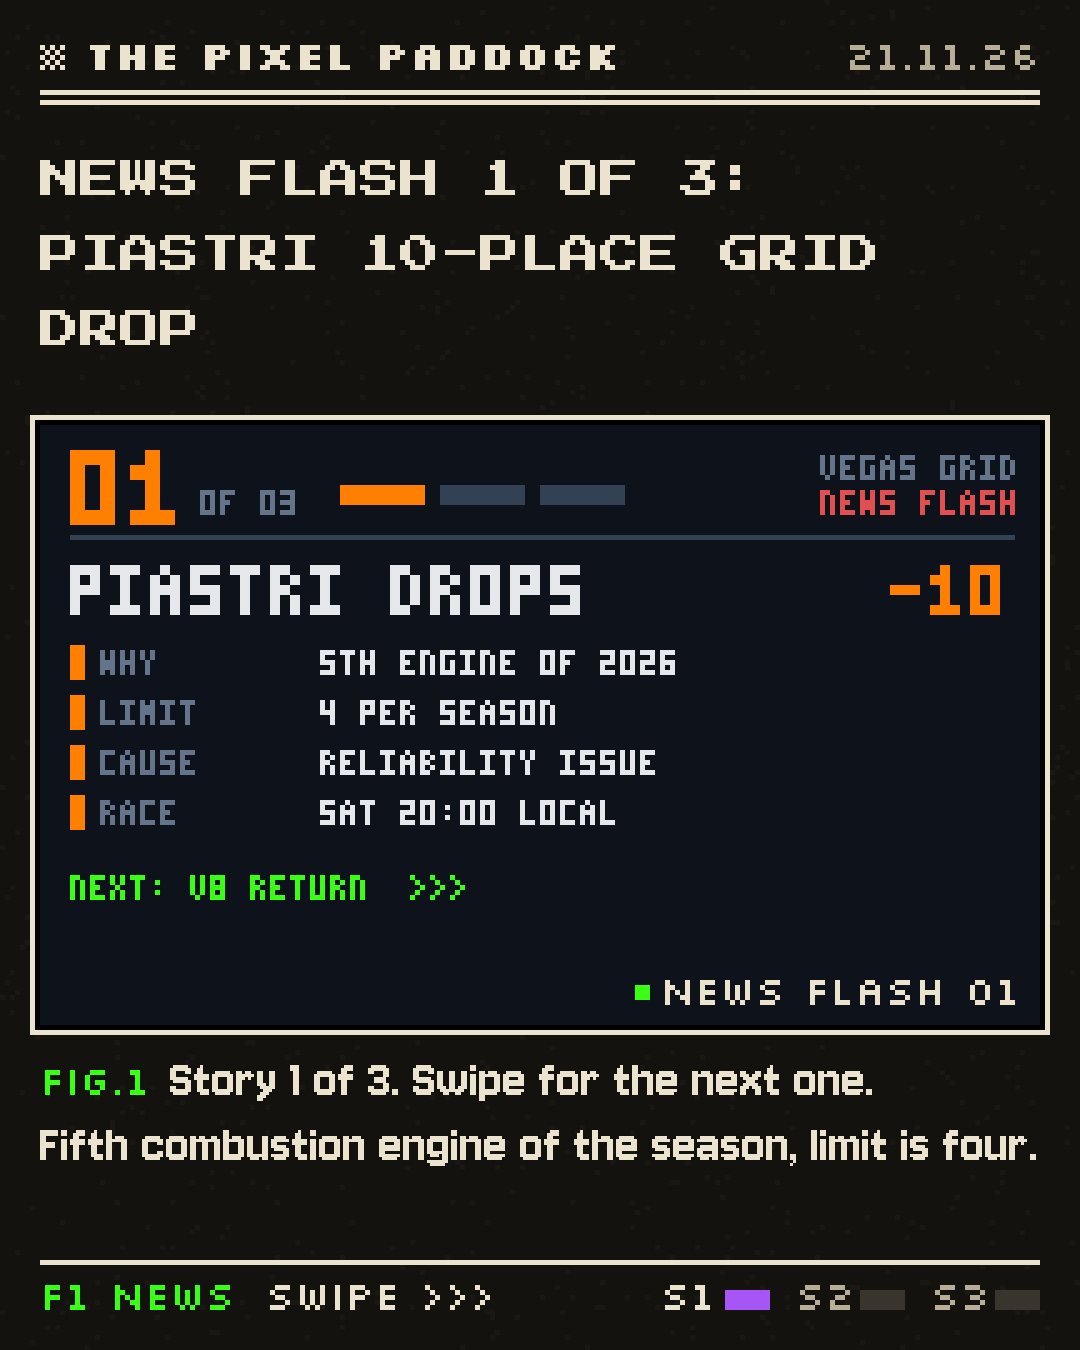
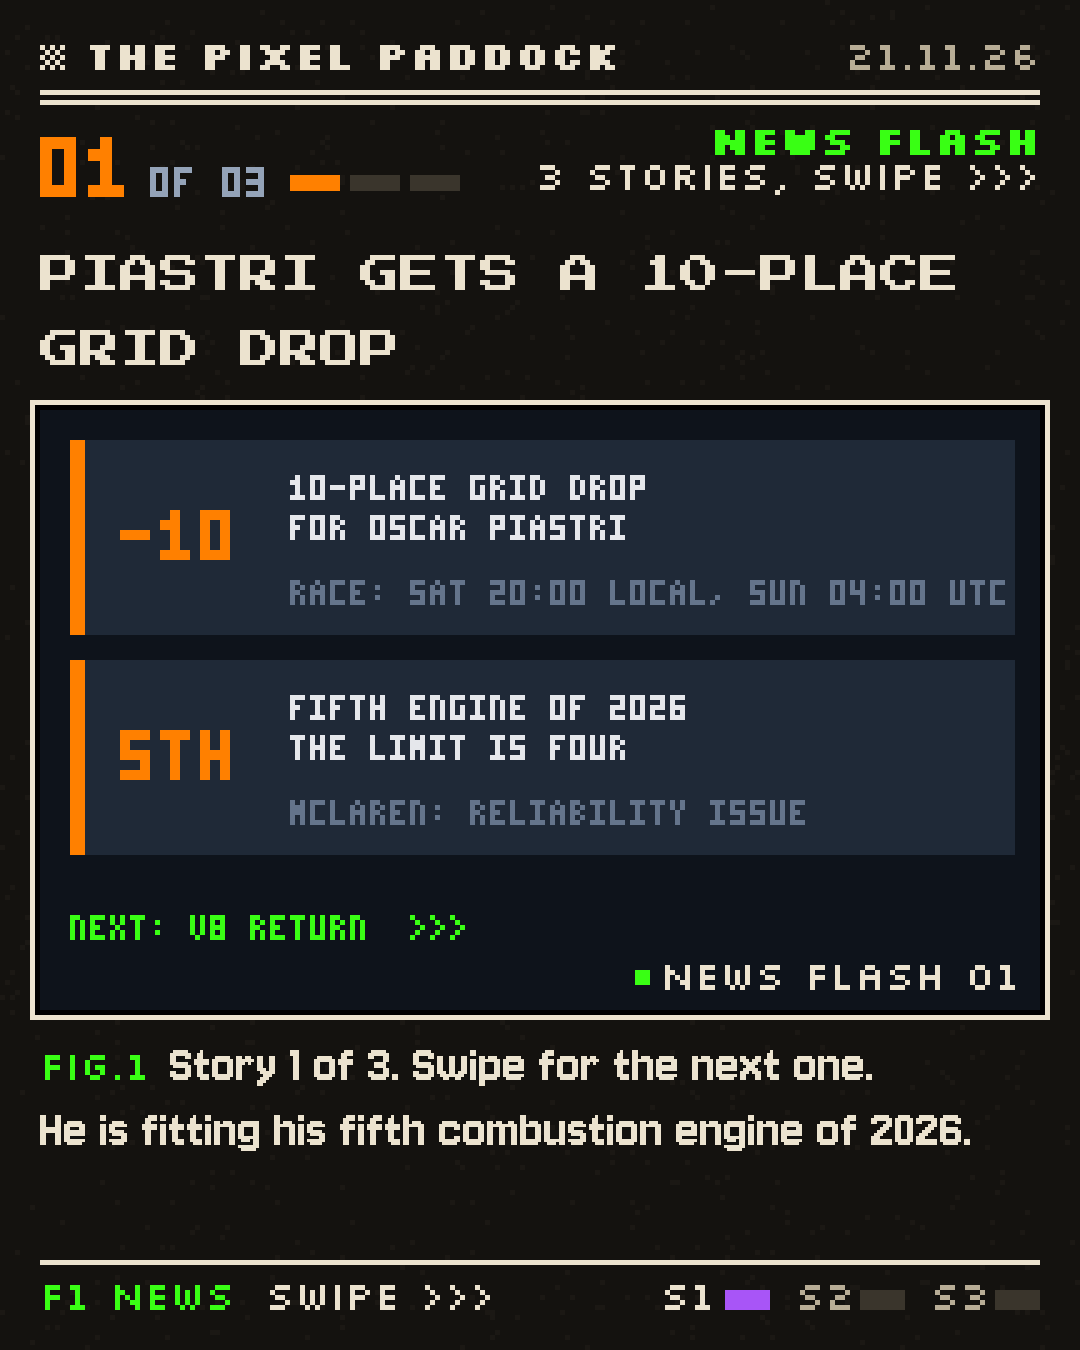
News Flash v3: counter at page top, one headline, card details
Claude-Session: https://claude.ai/code/session_01XcMK5Sp6yyyARadsj7RYTL

diff --git a/posts/2026-11-21_news-flash/script.py b/posts/2026-11-21_news-flash/script.py
@@ -2,78 +2,76 @@ import os, sys
 sys.path.insert(0, os.path.dirname(os.path.abspath(__file__))); sys.path.insert(0, os.path.join(os.path.dirname(os.path.abspath(__file__)), ".."))
 from PIL import Image, ImageDraw
 exec(open(os.path.join(os.path.dirname(os.path.abspath(__file__)),"post_fri.py")).read().split("def slide(")[0].replace('"out_fri"','"out_flash"').replace('DATE = "07.11.26"','DATE = "21.11.26"').replace('HUD = "23.70S 46.70W"','HUD = "NEWS FLASH 01"'))
-# NEWS FLASH No. 1, v2 (Marius 21.11.: clearly 3 stories, one per slide, info first, no noise, swipe prompt).
+from pp import text, tlen
+# NEWS FLASH No. 1, v3 (Marius 21.11.): big "01 OF 03" counter at the very top of the page, then ONE headline,
+# details as cards (v1 style) in story colour, one story per slide, "next" teaser to drive the swipe.
 # Sources (2 each, year 2026 checked):
 #  V8 2030: FIA press release 20.11.26 + RACER/Motorsport.com/The Race 20.11.26
 #  Piastri -10: F1.com 18.11.26 + PlanetF1 + Autosport (5th ICE, limit 4, reliability)
-#  Bottas 2027 / Herta: RACER 18.11.26 + PlanetF1 18.11.26 (Herta super licence points, no 2027 seat)
+#  Bottas 2027 / Herta: RACER 18.11.26 + PlanetF1 18.11.26 (+ F1.com Towriss 20.11.26)
 #  Left out (1 source only): Aron/Vesti Alpine, Herta declined reserve role, WMSC Shanghai vote.
 STORIES = {
- "v8":  dict(tag="ENGINES", col=GREEN, title=["V8S ARE BACK"], stat="2030",
-             rows=[("ENGINE","2.1 L TURBO V8"),("HYBRID","LIMITED"),("AGREED","UNANIMOUSLY"),("GOAL","LIGHTER, SIMPLER, CHEAPER")],
-             teaser="V8 RETURN"),
- "pia": dict(tag="VEGAS GRID", col=hx(TC["PIA"]), title=["PIASTRI DROPS"], stat="-10",
-             rows=[("WHY","5TH ENGINE OF 2026"),("LIMIT","4 PER SEASON"),("CAUSE","RELIABILITY ISSUE"),("RACE","SAT 20:00 LOCAL")],
-             teaser="PIASTRI -10"),
- "bot": dict(tag="2027 SEATS", col=hx(TC["BOT"]), title=["BOTTAS STAYS"], stat="2027",
-             rows=[("TEAM","CADILLAC"),("TEAM-MATE","PEREZ"),("LEFT OUT","COLTON HERTA"),("HERTA","HAS SUPER LICENCE POINTS")],
-             teaser="BOTTAS STAYS"),
+ "v8":  dict(col=GREEN, tag="ENGINES", teaser="V8 RETURN",
+             cards=[("2030", "2.1 L TURBO V8", "WITH LIMITED HYBRID", "NEW ENGINE RULES FROM 2030"),
+                    ("ALL", "AGREED UNANIMOUSLY", "FIA, F1, TEAMS, PU MAKERS", "GOAL: LIGHTER, SIMPLER, CHEAPER")]),
+ "pia": dict(col=hx(TC["PIA"]), tag="VEGAS GRID", teaser="PIASTRI -10",
+             cards=[("-10", "10-PLACE GRID DROP", "FOR OSCAR PIASTRI", "RACE: SAT 20:00 LOCAL, SUN 04:00 UTC"),
+                    ("5TH", "FIFTH ENGINE OF 2026", "THE LIMIT IS FOUR", "MCLAREN: RELIABILITY ISSUE")]),
+ "bot": dict(col=hx(TC["BOT"]), tag="2027 SEATS", teaser="BOTTAS STAYS",
+             cards=[("2027", "BOTTAS STAYS AT CADILLAC", "NEXT TO PEREZ AGAIN", "LINE-UP UNCHANGED FOR YEAR TWO"),
+                    ("NO", "NO RACE SEAT FOR HERTA", "DESPITE SUPER LICENCE POINTS", "EARNED IN FP1 RUNS FOR CADILLAC")]),
 }
 
-def big(im, x, y, s, col, k=2):
-    t = Image.new("RGB", (len(s)*4+2, 7), BG); tx(ImageDraw.Draw(t), 0, 1, s, col)
-    t = t.resize((t.width*k, t.height*k), Image.NEAREST); im.paste(t, (x, y - k))
+def px(s, col, k):           # pixel-font text block scaled k times (same 3x5 font as the scenes)
+    t = Image.new("RGB", (len(s)*4+1, 7), BG); tx(ImageDraw.Draw(t), 0, 1, s, col)
+    return t.resize((t.width*k, t.height*k), Image.NEAREST)
+def paste_px(im, x, y, s, col, k):
+    b = px(s, col, k); m = Image.eval(b.convert("L"), lambda v: 255 if v > 30 else 0); im.paste(b, (x, y), m)
+
+def counter(im, d, i, st, first):
+    y = 125
+    paste_px(im, 40, y, f"0{i+1}", st["col"], 12)                     # 01
+    paste_px(im, 150, y+36, "OF 03", hx("#94a3b8"), 6)                 # OF 03
+    for j in range(3):                                                 # progress
+        R(d, 290+j*60, y+50, 340+j*60, y+66, st["col"] if j == i else C["rule"])
+    lab = "NEWS FLASH"; text(im, W-40-tlen("labelb", lab), y+30, lab, "labelb", C["red"])
+    sub = "3 STORIES, SWIPE >>>" if first else st["tag"]
+    text(im, W-40-tlen("label", sub), y+66, sub, "label", C["ink"] if first else C["mute"])
+
+def card(d, im, y, c, stat, h1, h2, ctx):
+    r(d, 6, y, 194, y+38, BOXC); r(d, 6, y, 8, y+38, c)
+    sc = px(stat, c, 2); m = Image.eval(sc.convert("L"), lambda v: 255 if v > 30 else 0)
+    im.paste(sc, (12 + max(0, (34-sc.width)//2), y+12), m)
+    tx(d, 50, y+7, h1, INK); tx(d, 50, y+15, h2, INK); tx(d, 50, y+28, ctx, MUT)
 
 def scene_for(order, i):
-    key = order[i]; st = STORIES[key]
+    st = STORIES[order[i]]
     def s():
         im = Image.new("RGB", (200, 120), BG); d = ImageDraw.Draw(im)
-        # story counter: big number + 3-segment progress
-        big(im, 6, 5, f"0{i+1}", st["col"], 3); tx(d, 32, 13, "OF 03", MUT)
-        for j in range(3):
-            r(d, 60+j*20, 12, 76+j*20, 15, st["col"] if j == i else (SL if j > i else MUT))
-        tx(d, 196-len(st["tag"])*4, 6, st["tag"], MUT); tx(d, 196-len("NEWS FLASH")*4, 13, "NEWS FLASH", RED)
-        r(d, 6, 22, 194, 22, SL)
-        # title + key stat
-        for k, ln in enumerate(st["title"]): big(im, 6, 28+k*14, ln, INK, 2)
-        y0 = 28 + len(st["title"])*14
-        big(im, 194-len(st["stat"])*8, 28, st["stat"], st["col"], 2)
-        # fact rows
-        for k, (a, b) in enumerate(st["rows"]):
-            y = y0 + 2 + k*10
-            r(d, 6, y, 8, y+6, st["col"]); tx(d, 12, y+1, a, MUT); tx(d, 56, y+1, b, INK)
-        # swipe / end line
-        yb = y0 + 2 + len(st["rows"])*10 + 6
-        if i < 2: tx(d, 6, yb, f"NEXT: {STORIES[order[i+1]]['teaser']}  >>>", GREEN)
-        else:     tx(d, 6, yb, "THAT'S ALL 3. FOLLOW FOR MORE", GREEN)
+        for k, cd in enumerate(st["cards"]): card(d, im, 6+k*44, st["col"], *cd)
+        if i < 2: tx(d, 6, 101, f"NEXT: {STORIES[order[i+1]]['teaser']}  >>>", GREEN)
+        else:     tx(d, 6, 101, "THAT'S ALL 3. FOLLOW FOR MORE", GREEN)
         return im
     return s
 
-def slide(k, head, scene, figt, bod, foot, name):
+def slide(k, head, order, figt, bod, foot, name):
     im, d = page(k, 3, DATE)
-    y = headline(im, head)
-    y = cover_image(im, d, scene(), y + 75, HUD)
+    counter(im, d, k-1, STORIES[order[k-1]], k == 1)
+    y = headline(im, head, top=260)
+    y = cover_image(im, d, scene_for(order, k-1)(), y + 40, HUD)
     fig(im, y + 60, figt, k)
     body(im, y + 95, bod)
     footer(im, d, k, foot); im.save(f"{OUT}/{name}.png")
 
-V = {
- "1": (["v8","pia","bot"], ["NEWS FLASH: 3 STORIES, 3 SWIPES. 1: V8S RETURN IN 2030",
-                            "2: PIASTRI DROPS 10 PLACES IN VEGAS",
-                            "3: BOTTAS KEEPS HIS CADILLAC SEAT"]),
- "2": (["pia","v8","bot"], ["NEWS FLASH 1 OF 3: PIASTRI 10-PLACE GRID DROP",
-                            "NEWS FLASH 2 OF 3: V8 ENGINES BACK IN 2030",
-                            "NEWS FLASH 3 OF 3: BOTTAS STAYS, HERTA OUT"]),
- "3": (["v8","bot","pia"], ["THIS WEEK IN 3 SWIPES. 01: THE V8 IS BACK",
-                            "02: BOTTAS STAYS AT CADILLAC FOR 2027",
-                            "03: PIASTRI STARTS 10 PLACES BACK"]),
-}
+HEAD = {"v8": "V8 ENGINES RETURN TO F1 IN 2030", "pia": "PIASTRI GETS A 10-PLACE GRID DROP", "bot": "BOTTAS STAYS, NO 2027 SEAT FOR HERTA"}
+HEAD3 = {"v8": "THE V8 IS BACK FROM 2030", "pia": "PIASTRI STARTS 10 PLACES BACK", "bot": "CADILLAC KEEPS BOTTAS FOR 2027"}
+BOD = {"v8": "FIA, F1, teams and engine makers all signed up.", "pia": "He is fitting his fifth combustion engine of 2026.",
+       "bot": "Same Cadillac line-up next year: Bottas and Perez."}
 FIG = ["Story 1 of 3. Swipe for the next one.", "Story 2 of 3. One more to go.", "Story 3 of 3."]
-BOD = {"v8": "FIA, F1, teams and engine makers all signed up.", "pia": "Fifth combustion engine of the season, limit is four.",
-       "bot": "Same line-up next year: Bottas and Perez."}
+V = {"1": (["v8", "pia", "bot"], HEAD), "2": (["pia", "v8", "bot"], HEAD), "3": (["v8", "bot", "pia"], HEAD3)}
 for v, (order, heads) in V.items():
     for i in range(3):
-        slide(i+1, heads[i], scene_for(order, i), FIG[i], BOD[order[i]], "SWIPE >>>" if i < 2 else "FOLLOW", f"{v}_{i+1}")
+        slide(i+1, heads[order[i]], order, FIG[i], BOD[order[i]], "SWIPE >>>" if i < 2 else "FOLLOW", f"{v}_{i+1}")
 names = [f"{v}_{i}" for v in "123" for i in "123"]
 sh = Image.new("RGB", (3*550+10, 3*685+10), (60, 60, 60))
 for k, n in enumerate(names): sh.paste(Image.open(f"{OUT}/{n}.png").resize((540, 675)), (10+(k%3)*550, 10+(k//3)*685))

diff --git a/toolkit/examples/post_newsflash.py b/toolkit/examples/post_newsflash.py
@@ -2,78 +2,76 @@ import os, sys
 sys.path.insert(0, os.path.dirname(os.path.abspath(__file__))); sys.path.insert(0, os.path.join(os.path.dirname(os.path.abspath(__file__)), ".."))
 from PIL import Image, ImageDraw
 exec(open(os.path.join(os.path.dirname(os.path.abspath(__file__)),"post_fri.py")).read().split("def slide(")[0].replace('"out_fri"','"out_flash"').replace('DATE = "07.11.26"','DATE = "21.11.26"').replace('HUD = "23.70S 46.70W"','HUD = "NEWS FLASH 01"'))
-# NEWS FLASH No. 1, v2 (Marius 21.11.: clearly 3 stories, one per slide, info first, no noise, swipe prompt).
+from pp import text, tlen
+# NEWS FLASH No. 1, v3 (Marius 21.11.): big "01 OF 03" counter at the very top of the page, then ONE headline,
+# details as cards (v1 style) in story colour, one story per slide, "next" teaser to drive the swipe.
 # Sources (2 each, year 2026 checked):
 #  V8 2030: FIA press release 20.11.26 + RACER/Motorsport.com/The Race 20.11.26
 #  Piastri -10: F1.com 18.11.26 + PlanetF1 + Autosport (5th ICE, limit 4, reliability)
-#  Bottas 2027 / Herta: RACER 18.11.26 + PlanetF1 18.11.26 (Herta super licence points, no 2027 seat)
+#  Bottas 2027 / Herta: RACER 18.11.26 + PlanetF1 18.11.26 (+ F1.com Towriss 20.11.26)
 #  Left out (1 source only): Aron/Vesti Alpine, Herta declined reserve role, WMSC Shanghai vote.
 STORIES = {
- "v8":  dict(tag="ENGINES", col=GREEN, title=["V8S ARE BACK"], stat="2030",
-             rows=[("ENGINE","2.1 L TURBO V8"),("HYBRID","LIMITED"),("AGREED","UNANIMOUSLY"),("GOAL","LIGHTER, SIMPLER, CHEAPER")],
-             teaser="V8 RETURN"),
- "pia": dict(tag="VEGAS GRID", col=hx(TC["PIA"]), title=["PIASTRI DROPS"], stat="-10",
-             rows=[("WHY","5TH ENGINE OF 2026"),("LIMIT","4 PER SEASON"),("CAUSE","RELIABILITY ISSUE"),("RACE","SAT 20:00 LOCAL")],
-             teaser="PIASTRI -10"),
- "bot": dict(tag="2027 SEATS", col=hx(TC["BOT"]), title=["BOTTAS STAYS"], stat="2027",
-             rows=[("TEAM","CADILLAC"),("TEAM-MATE","PEREZ"),("LEFT OUT","COLTON HERTA"),("HERTA","HAS SUPER LICENCE POINTS")],
-             teaser="BOTTAS STAYS"),
+ "v8":  dict(col=GREEN, tag="ENGINES", teaser="V8 RETURN",
+             cards=[("2030", "2.1 L TURBO V8", "WITH LIMITED HYBRID", "NEW ENGINE RULES FROM 2030"),
+                    ("ALL", "AGREED UNANIMOUSLY", "FIA, F1, TEAMS, PU MAKERS", "GOAL: LIGHTER, SIMPLER, CHEAPER")]),
+ "pia": dict(col=hx(TC["PIA"]), tag="VEGAS GRID", teaser="PIASTRI -10",
+             cards=[("-10", "10-PLACE GRID DROP", "FOR OSCAR PIASTRI", "RACE: SAT 20:00 LOCAL, SUN 04:00 UTC"),
+                    ("5TH", "FIFTH ENGINE OF 2026", "THE LIMIT IS FOUR", "MCLAREN: RELIABILITY ISSUE")]),
+ "bot": dict(col=hx(TC["BOT"]), tag="2027 SEATS", teaser="BOTTAS STAYS",
+             cards=[("2027", "BOTTAS STAYS AT CADILLAC", "NEXT TO PEREZ AGAIN", "LINE-UP UNCHANGED FOR YEAR TWO"),
+                    ("NO", "NO RACE SEAT FOR HERTA", "DESPITE SUPER LICENCE POINTS", "EARNED IN FP1 RUNS FOR CADILLAC")]),
 }
 
-def big(im, x, y, s, col, k=2):
-    t = Image.new("RGB", (len(s)*4+2, 7), BG); tx(ImageDraw.Draw(t), 0, 1, s, col)
-    t = t.resize((t.width*k, t.height*k), Image.NEAREST); im.paste(t, (x, y - k))
+def px(s, col, k):           # pixel-font text block scaled k times (same 3x5 font as the scenes)
+    t = Image.new("RGB", (len(s)*4+1, 7), BG); tx(ImageDraw.Draw(t), 0, 1, s, col)
+    return t.resize((t.width*k, t.height*k), Image.NEAREST)
+def paste_px(im, x, y, s, col, k):
+    b = px(s, col, k); m = Image.eval(b.convert("L"), lambda v: 255 if v > 30 else 0); im.paste(b, (x, y), m)
+
+def counter(im, d, i, st, first):
+    y = 125
+    paste_px(im, 40, y, f"0{i+1}", st["col"], 12)                     # 01
+    paste_px(im, 150, y+36, "OF 03", hx("#94a3b8"), 6)                 # OF 03
+    for j in range(3):                                                 # progress
+        R(d, 290+j*60, y+50, 340+j*60, y+66, st["col"] if j == i else C["rule"])
+    lab = "NEWS FLASH"; text(im, W-40-tlen("labelb", lab), y+30, lab, "labelb", C["red"])
+    sub = "3 STORIES, SWIPE >>>" if first else st["tag"]
+    text(im, W-40-tlen("label", sub), y+66, sub, "label", C["ink"] if first else C["mute"])
+
+def card(d, im, y, c, stat, h1, h2, ctx):
+    r(d, 6, y, 194, y+38, BOXC); r(d, 6, y, 8, y+38, c)
+    sc = px(stat, c, 2); m = Image.eval(sc.convert("L"), lambda v: 255 if v > 30 else 0)
+    im.paste(sc, (12 + max(0, (34-sc.width)//2), y+12), m)
+    tx(d, 50, y+7, h1, INK); tx(d, 50, y+15, h2, INK); tx(d, 50, y+28, ctx, MUT)
 
 def scene_for(order, i):
-    key = order[i]; st = STORIES[key]
+    st = STORIES[order[i]]
     def s():
         im = Image.new("RGB", (200, 120), BG); d = ImageDraw.Draw(im)
-        # story counter: big number + 3-segment progress
-        big(im, 6, 5, f"0{i+1}", st["col"], 3); tx(d, 32, 13, "OF 03", MUT)
-        for j in range(3):
-            r(d, 60+j*20, 12, 76+j*20, 15, st["col"] if j == i else (SL if j > i else MUT))
-        tx(d, 196-len(st["tag"])*4, 6, st["tag"], MUT); tx(d, 196-len("NEWS FLASH")*4, 13, "NEWS FLASH", RED)
-        r(d, 6, 22, 194, 22, SL)
-        # title + key stat
-        for k, ln in enumerate(st["title"]): big(im, 6, 28+k*14, ln, INK, 2)
-        y0 = 28 + len(st["title"])*14
-        big(im, 194-len(st["stat"])*8, 28, st["stat"], st["col"], 2)
-        # fact rows
-        for k, (a, b) in enumerate(st["rows"]):
-            y = y0 + 2 + k*10
-            r(d, 6, y, 8, y+6, st["col"]); tx(d, 12, y+1, a, MUT); tx(d, 56, y+1, b, INK)
-        # swipe / end line
-        yb = y0 + 2 + len(st["rows"])*10 + 6
-        if i < 2: tx(d, 6, yb, f"NEXT: {STORIES[order[i+1]]['teaser']}  >>>", GREEN)
-        else:     tx(d, 6, yb, "THAT'S ALL 3. FOLLOW FOR MORE", GREEN)
+        for k, cd in enumerate(st["cards"]): card(d, im, 6+k*44, st["col"], *cd)
+        if i < 2: tx(d, 6, 101, f"NEXT: {STORIES[order[i+1]]['teaser']}  >>>", GREEN)
+        else:     tx(d, 6, 101, "THAT'S ALL 3. FOLLOW FOR MORE", GREEN)
         return im
     return s
 
-def slide(k, head, scene, figt, bod, foot, name):
+def slide(k, head, order, figt, bod, foot, name):
     im, d = page(k, 3, DATE)
-    y = headline(im, head)
-    y = cover_image(im, d, scene(), y + 75, HUD)
+    counter(im, d, k-1, STORIES[order[k-1]], k == 1)
+    y = headline(im, head, top=260)
+    y = cover_image(im, d, scene_for(order, k-1)(), y + 40, HUD)
     fig(im, y + 60, figt, k)
     body(im, y + 95, bod)
     footer(im, d, k, foot); im.save(f"{OUT}/{name}.png")
 
-V = {
- "1": (["v8","pia","bot"], ["NEWS FLASH: 3 STORIES, 3 SWIPES. 1: V8S RETURN IN 2030",
-                            "2: PIASTRI DROPS 10 PLACES IN VEGAS",
-                            "3: BOTTAS KEEPS HIS CADILLAC SEAT"]),
- "2": (["pia","v8","bot"], ["NEWS FLASH 1 OF 3: PIASTRI 10-PLACE GRID DROP",
-                            "NEWS FLASH 2 OF 3: V8 ENGINES BACK IN 2030",
-                            "NEWS FLASH 3 OF 3: BOTTAS STAYS, HERTA OUT"]),
- "3": (["v8","bot","pia"], ["THIS WEEK IN 3 SWIPES. 01: THE V8 IS BACK",
-                            "02: BOTTAS STAYS AT CADILLAC FOR 2027",
-                            "03: PIASTRI STARTS 10 PLACES BACK"]),
-}
+HEAD = {"v8": "V8 ENGINES RETURN TO F1 IN 2030", "pia": "PIASTRI GETS A 10-PLACE GRID DROP", "bot": "BOTTAS STAYS, NO 2027 SEAT FOR HERTA"}
+HEAD3 = {"v8": "THE V8 IS BACK FROM 2030", "pia": "PIASTRI STARTS 10 PLACES BACK", "bot": "CADILLAC KEEPS BOTTAS FOR 2027"}
+BOD = {"v8": "FIA, F1, teams and engine makers all signed up.", "pia": "He is fitting his fifth combustion engine of 2026.",
+       "bot": "Same Cadillac line-up next year: Bottas and Perez."}
 FIG = ["Story 1 of 3. Swipe for the next one.", "Story 2 of 3. One more to go.", "Story 3 of 3."]
-BOD = {"v8": "FIA, F1, teams and engine makers all signed up.", "pia": "Fifth combustion engine of the season, limit is four.",
-       "bot": "Same line-up next year: Bottas and Perez."}
+V = {"1": (["v8", "pia", "bot"], HEAD), "2": (["pia", "v8", "bot"], HEAD), "3": (["v8", "bot", "pia"], HEAD3)}
 for v, (order, heads) in V.items():
     for i in range(3):
-        slide(i+1, heads[i], scene_for(order, i), FIG[i], BOD[order[i]], "SWIPE >>>" if i < 2 else "FOLLOW", f"{v}_{i+1}")
+        slide(i+1, heads[order[i]], order, FIG[i], BOD[order[i]], "SWIPE >>>" if i < 2 else "FOLLOW", f"{v}_{i+1}")
 names = [f"{v}_{i}" for v in "123" for i in "123"]
 sh = Image.new("RGB", (3*550+10, 3*685+10), (60, 60, 60))
 for k, n in enumerate(names): sh.paste(Image.open(f"{OUT}/{n}.png").resize((540, 675)), (10+(k%3)*550, 10+(k//3)*685))
